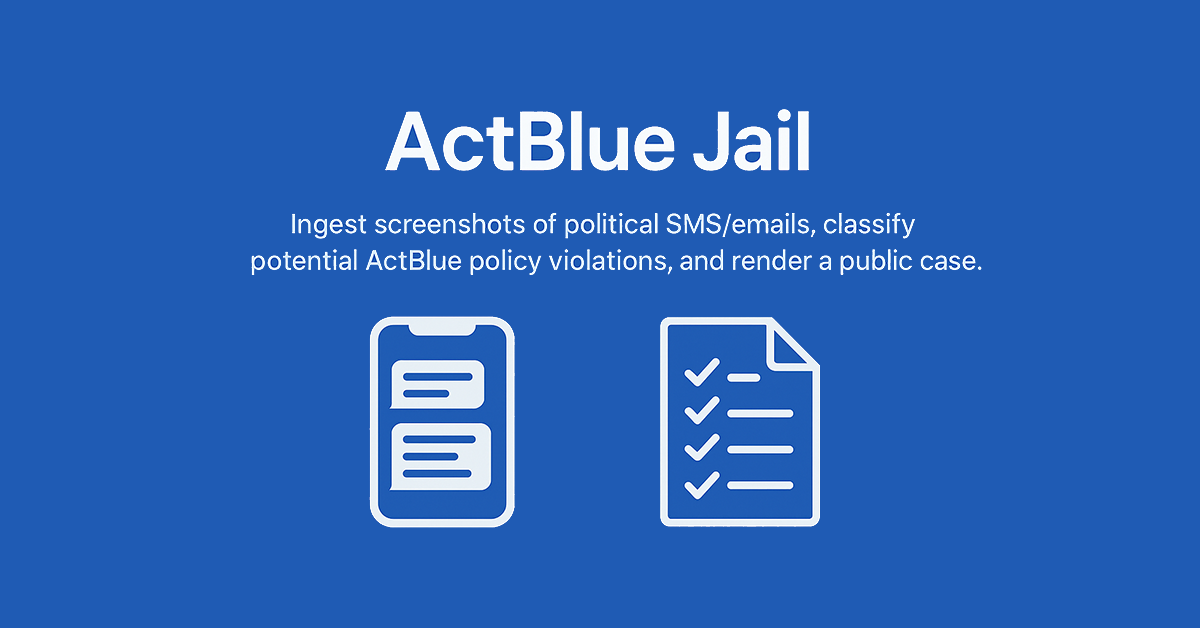
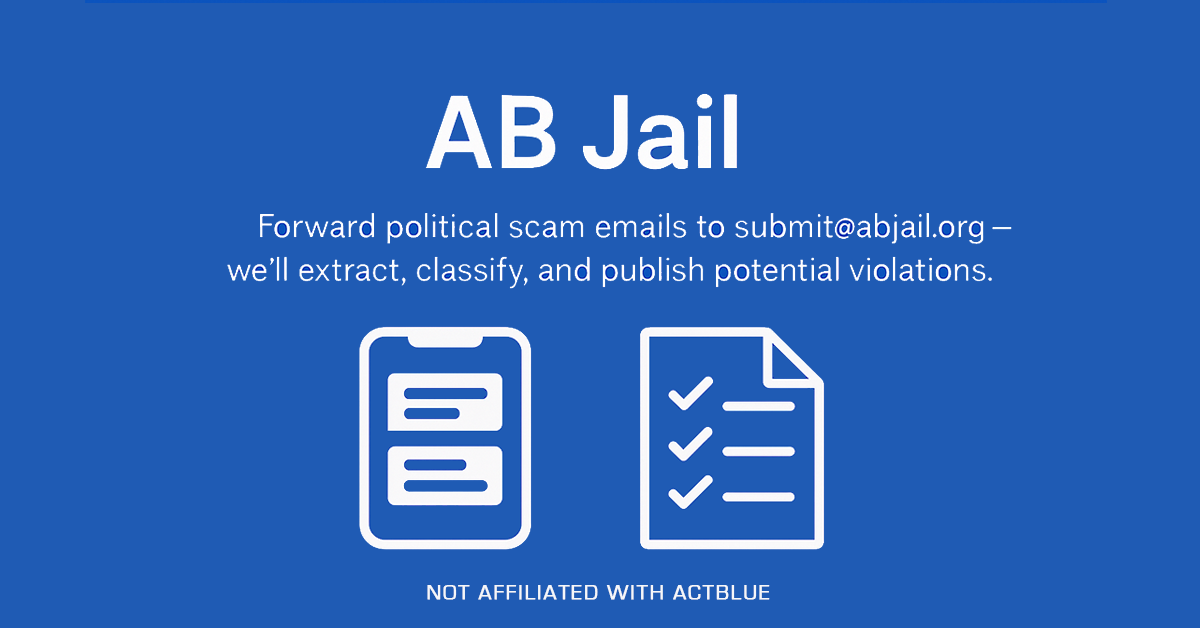
Update metadata and content to reflect dual submission + bot monitoring
- Update layout.tsx metadata to clearly describe AB Jail as a public database of political fundraising messages that may violate ActBlue rules
- Update README.md to emphasize both manual submission (forward/paste/upload) and automatic bot-based monitoring
- Update about/page.tsx to reflect that email coverage is now active (no longer 'next')
- Add real-time monitoring section to welcome/page.tsx explaining honeytrap accounts and automated collection
- Simplify all descriptions to be clear and jargon-free for first-time visitors

diff --git a/web/src/app/about/page.tsx b/web/src/app/about/page.tsx
@@ -31,10 +31,10 @@ export default function AboutPage() {
         <section className="mx-auto max-w-3xl bg-white rounded-2xl border border-slate-200 shadow-sm p-4 md:p-6 space-y-4">
           <h2 className="text-lg font-semibold text-slate-900">What is AB Jail?</h2>
           <p className="text-sm text-slate-700">
-            AB Jail is an open-source, community-led transparency project for political fundraising. Donors – especially elderly small-dollar givers – are being bombarded with deceptive texts and emails that erode trust and poison the well for everyone. AB Jail shines a light on these practices: just drag and drop a screenshot, and AI extracts the sender, flags likely violations of ActBlue&apos;s own published rules, generates a ready-to-send report, and adds the case to a public ledger.
+            AB Jail is an open-source, community-led transparency project for political fundraising. Donors – especially elderly small-dollar givers – are being bombarded with deceptive texts and emails that erode trust and poison the well for everyone. AB Jail shines a light on these practices by accepting submissions and monitoring real-time feeds: Forward suspicious emails to <code className="bg-slate-100 px-1 py-0.5 rounded text-xs font-mono">submit@abjail.org</code>, upload screenshots, or paste text, and AI extracts the sender, flags likely violations of ActBlue&apos;s own published rules, generates a ready-to-send report, and adds the case to a public ledger.
           </p>
           <p className="text-sm text-slate-700">
-            In addition to uploads, AB Jail continuously parses messages from seeded phone numbers subscribed to campaigns, PACs, and list sellers, creating a real-time feed of fundraising solicitations. Email coverage is next.
+            Additionally, AB Jail continuously monitors messages from seeded phone numbers and email addresses subscribed to campaigns, PACs, and list sellers, creating a real-time feed of fundraising solicitations that builds our public database. This two-pronged approach – manual submission and automatic collection – ensures comprehensive coverage of deceptive practices.
           </p>
           <p className="text-sm text-slate-700">
             The goal is to protect donors and safeguard small-dollar fundraising by making patterns public. The entire project is open-source and community-driven – anyone can audit the <a href="https://github.com/ryanmio/ActBlue-Jail#" className="underline hover:no-underline" target="_blank" rel="noopener noreferrer">code</a> or contribute improvements directly.

diff --git a/web/src/app/welcome/page.tsx b/web/src/app/welcome/page.tsx
@@ -8,7 +8,7 @@ import { VIOLATION_POLICIES, AUP_HELP_URL } from "@/lib/violation-policies";
 export const metadata: Metadata = {
   title: "How it works",
   description:
-    "Learn how to use AB Jail to report potential ActBlue policy violations in political fundraising messages.",
+    "Submit fundraising messages or browse real-time feeds. AB Jail uses AI to flag potential ActBlue policy violations in political campaigns.",
 };
 
 export default function WelcomePage() {
@@ -112,6 +112,23 @@ export default function WelcomePage() {
                   Fast, but loses formatting, images, and email metadata.
                 </p>
               </div>
+            </div>
+        </section>
+
+        <section className="mx-auto max-w-3xl bg-white rounded-2xl border border-slate-200 shadow-sm p-4 md:p-6 space-y-4">
+            <h2 className="text-2xl font-semibold text-slate-900 mb-4">
+              Real-time monitoring through bots
+            </h2>
+            <p className="text-slate-700 leading-relaxed mb-4">
+              Beyond user submissions, AB Jail continuously monitors fundraising at scale using seeded phone numbers and email addresses. These "honeytrap" accounts subscribe to campaigns, PACs, and list sellers, capturing solicitations automatically.
+            </p>
+            <p className="text-slate-700 leading-relaxed mb-4">
+              All collected messages undergo the same AI analysis as manual submissions, appearing in the public database with the same violation flags and context. This two-pronged approach ensures we catch both individual cases flagged by donors and systemic patterns across campaigns.
+            </p>
+            <div className="bg-blue-50 border border-blue-200 rounded-lg p-4">
+              <p className="text-sm text-blue-900">
+                <span className="font-semibold">Browse by source:</span> On the <a href="/cases" className="underline hover:no-underline">cases page</a>, filter by "user submitted" or "automated collection" to see which messages came from donors and which from our monitoring systems.
+              </p>
             </div>
         </section>
 

diff --git a/web/src/app/layout.tsx b/web/src/app/layout.tsx
@@ -19,7 +19,7 @@ export const metadata: Metadata = {
   metadataBase: new URL(env.NEXT_PUBLIC_SITE_URL),
   title: { default: "AB Jail", template: "%s - AB Jail" },
   description:
-    "Upload a screenshot or paste text. AI flags potential ActBlue AUP violations and adds a public record. Not affiliated with ActBlue.",
+    "Public database of political fundraising messages that may violate ActBlue's rules. AI analyzes submissions and messages from monitored accounts. Not affiliated with ActBlue.",
   manifest: "/site.webmanifest",
   icons: {
     icon: "/favicon.ico",
@@ -29,7 +29,7 @@ export const metadata: Metadata = {
   openGraph: {
     title: "AB Jail",
     description:
-      "Upload a screenshot or paste text. AI flags potential ActBlue AUP violations and adds a public record.",
+      "Public database of political fundraising messages that may violate ActBlue's rules. AI analyzes user submissions and auto-collected messages.",
     url: "/",
     siteName: "AB Jail",
     type: "website",
@@ -39,7 +39,7 @@ export const metadata: Metadata = {
     card: "summary_large_image",
     title: "AB Jail",
     description:
-      "Upload a screenshot or paste text. AI flags potential ActBlue AUP violations and adds a public record.",
+      "Public database of political fundraising messages that may violate ActBlue's rules. AI analyzes user submissions and auto-collected messages.",
   },
   alternates: { canonical: "/" },
 };

diff --git a/README.md b/README.md
@@ -1,6 +1,10 @@
 # AB Jail
 
-AB Jail is an open-source project that brings transparency to political fundraising. The tool allows forwarding or dragging and dropping screenshots of deceptive texts or emails, where AI extracts the sender, checks against ActBlue's rules, drafts a report, and logs it publicly. Messages from seeded phone numbers are automatically collected to build a real-time feed of these solicitations.
+AB Jail is an open-source project that brings transparency to political fundraising through AI-powered analysis and real-time monitoring. 
+
+**Submit manually:** Forward emails to submit@abjail.org, paste text directly, or upload screenshots of deceptive messages. AI extracts senders, checks against ActBlue's rules, drafts reports, and adds cases to a public ledger.
+
+**Monitor automatically:** Seeded phone numbers and email addresses continuously collect fundraising solicitations from campaigns, PACs, and list sellers, creating a real-time feed that builds our database.
 
 ## Contributing
 
